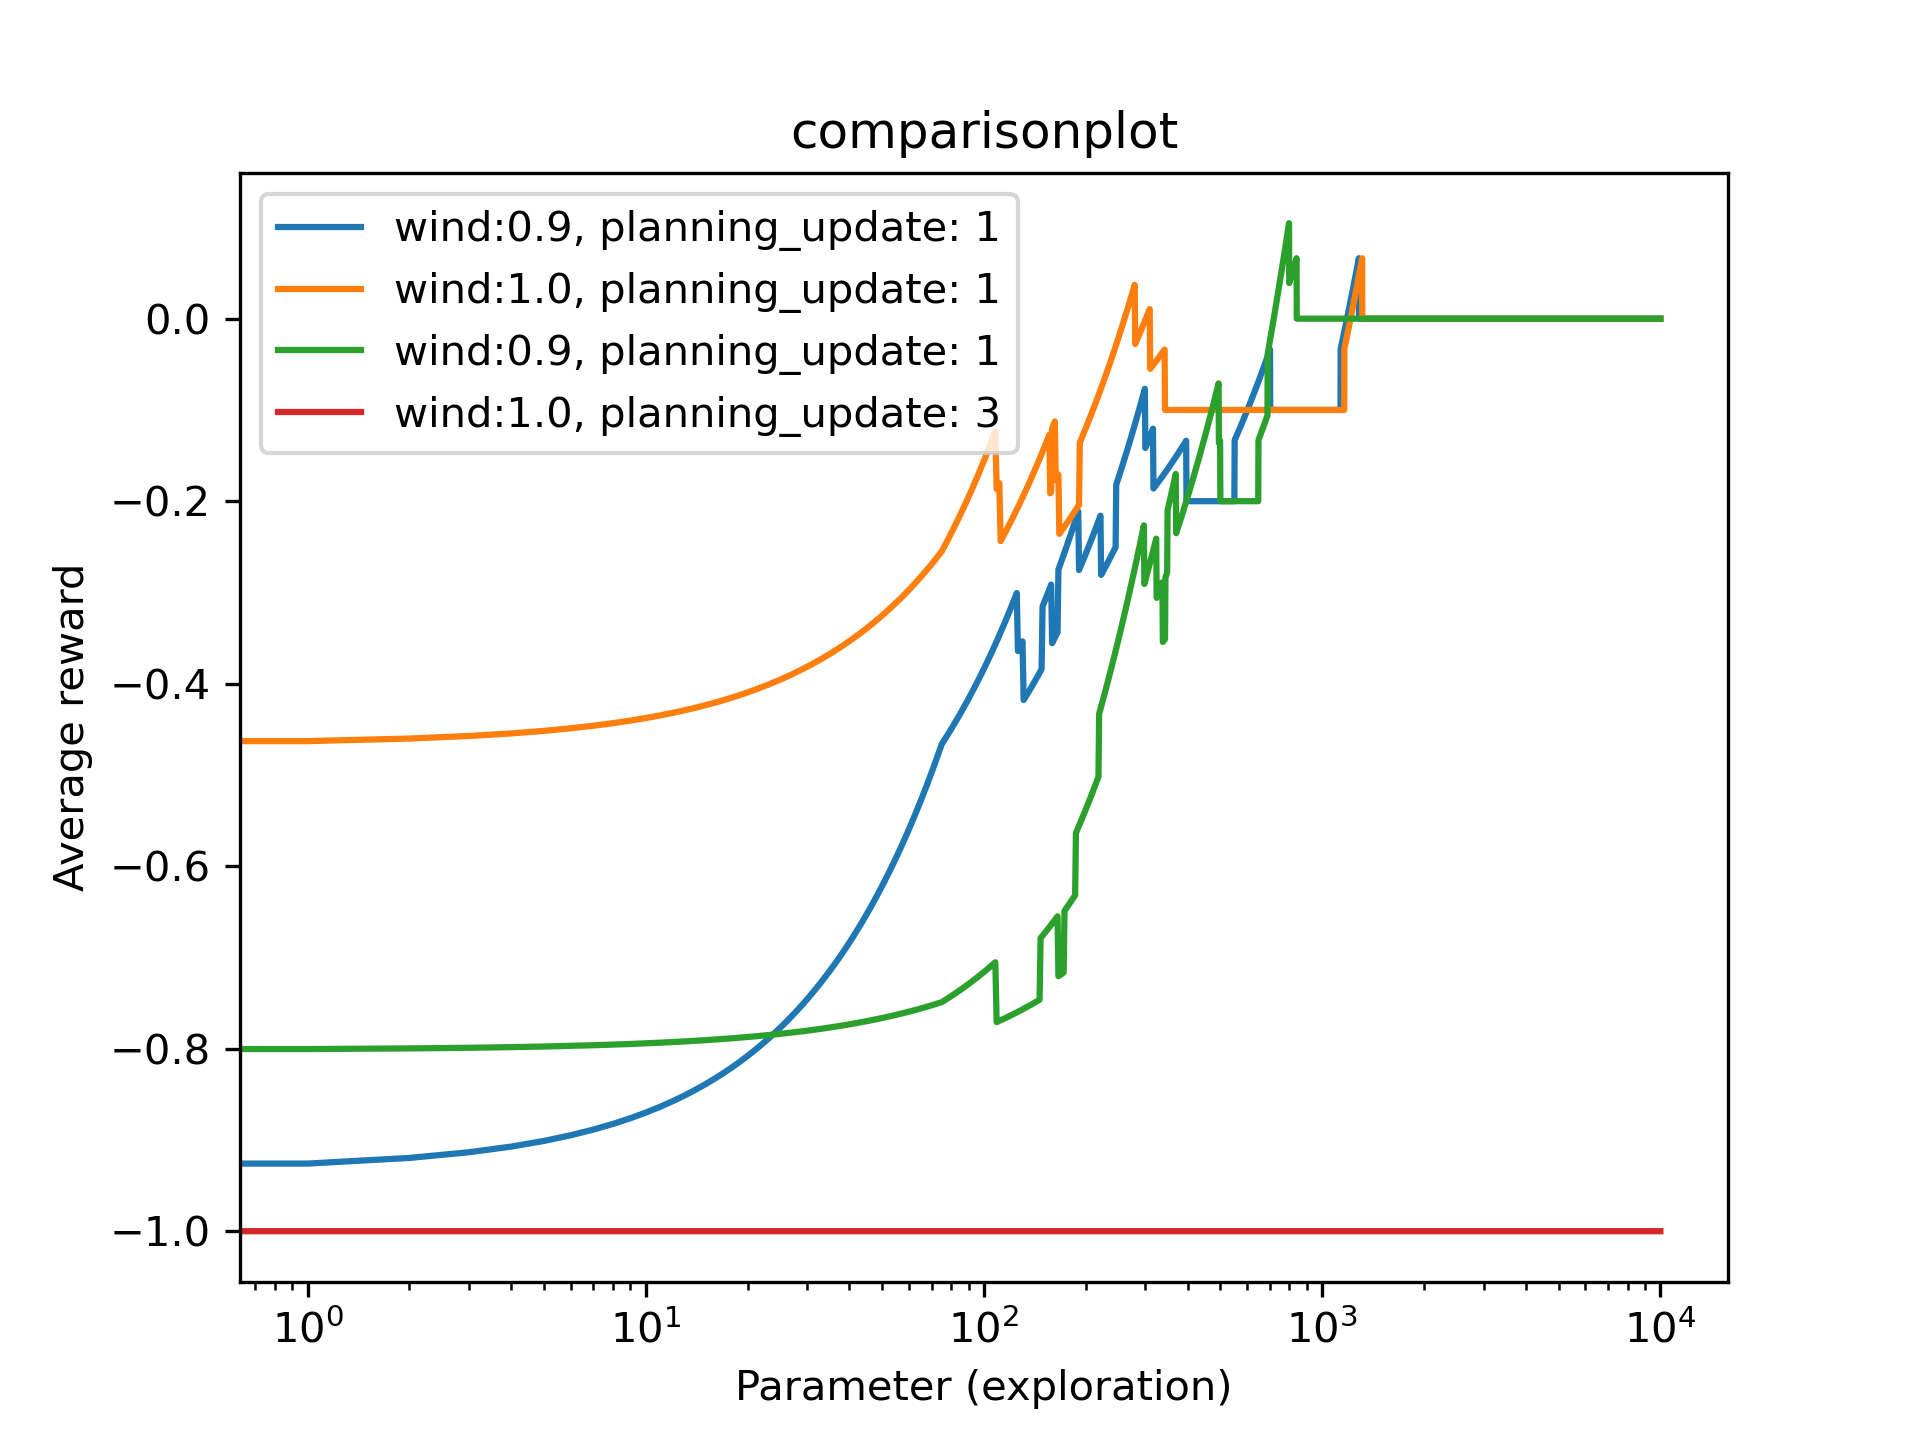
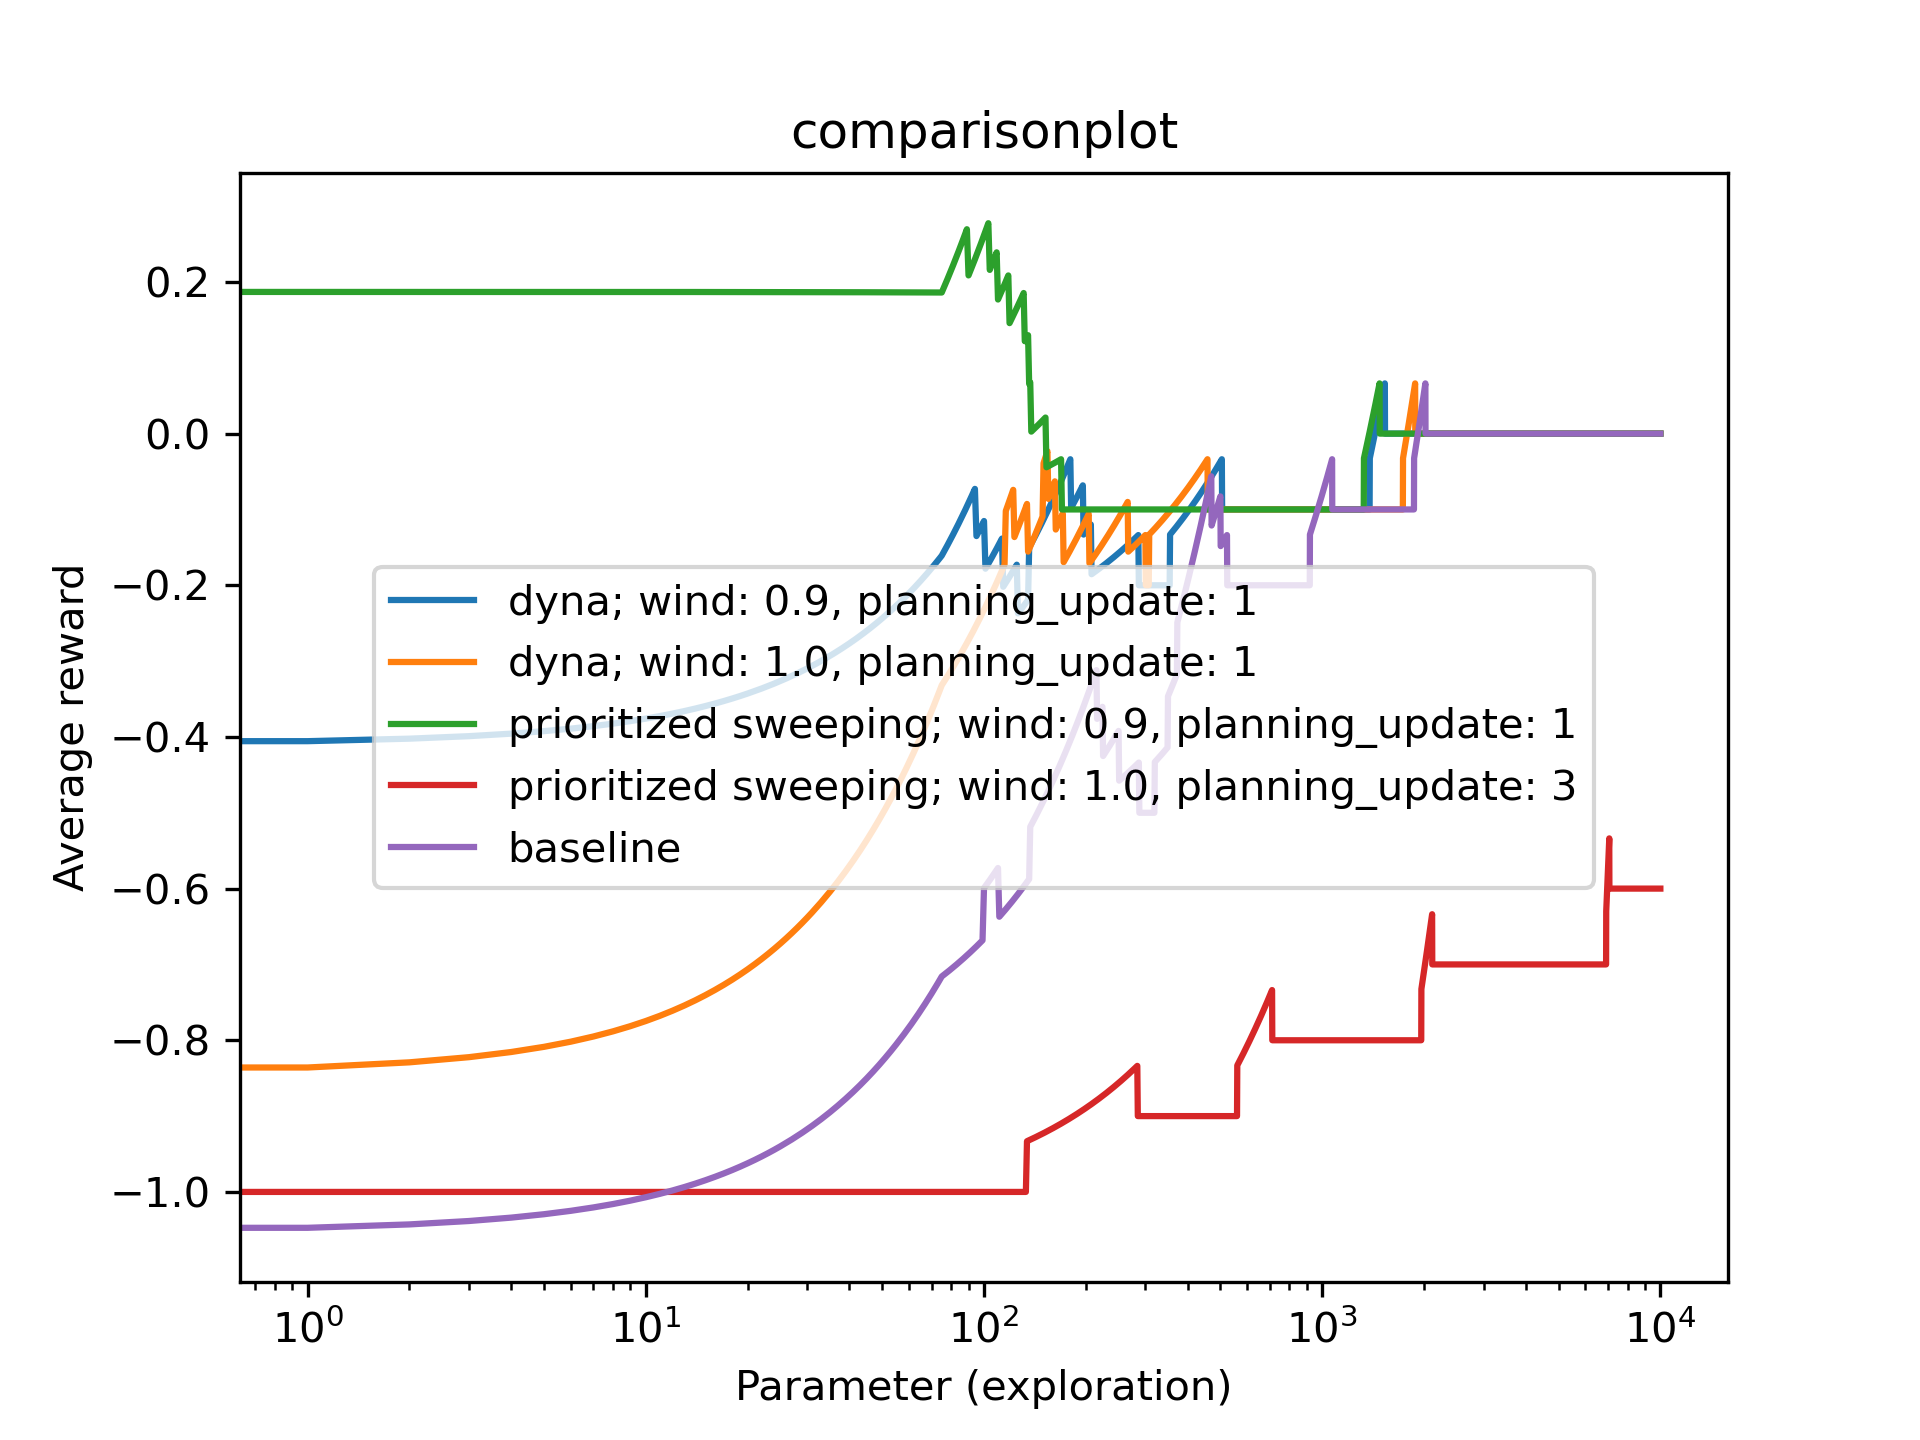
final final final commit

diff --git a/MBRLExperiment.py b/MBRLExperiment.py
@@ -49,11 +49,17 @@ def experiment():
         for wind_proportion in range(len(wind_proportions)):
             mean_rewards = run_repetitions(n_timesteps, n_repetitions, gamma, learning_rate, epsilon, wind_proportions[wind_proportion], best_parameters[agent][wind_proportion], eval_interval, agents[agent])
             smoothed_rewards = smooth(mean_rewards, window=151)
-            plot.add_curve(np.arange(n_timesteps), smoothed_rewards, label='wind:' + str(wind_proportions[wind_proportion]) + ', planning_update: ' + str(best_parameters[agent][wind_proportion]))
+            if agents[agent] == DynaAgent:
+                plot.add_curve(np.arange(n_timesteps), smoothed_rewards, label='dyna; wind: ' + str(wind_proportions[wind_proportion]) + ', planning_update: ' + str(best_parameters[agent][wind_proportion]))
+            else:
+                plot.add_curve(np.arange(n_timesteps), smoothed_rewards, label='prioritized sweeping; wind: ' + str(wind_proportions[wind_proportion]) + ', planning_update: ' + str(best_parameters[agent][wind_proportion]))
+    
+    #add baseline
+    mean_rewards = run_repetitions(n_timesteps, n_repetitions, gamma, learning_rate, epsilon, 0.9, 0, eval_interval, agents[0])
+    smoothed_rewards = smooth(mean_rewards, window=151)
+    plot.add_curve(np.arange(n_timesteps), smoothed_rewards, label='baseline')
     plot.save('comparisonplot.png')    
             
-        
-    # IMPLEMENT YOUR EXPERIMENT HERE
 
 def run_repetitions(n_timesteps, n_repetitions, gamma, learning_rate, epsilon, wind_proportion, n_planning_updates, eval_interval, agents):
     # IMPLEMENT YOUR FUNCTION HERE
